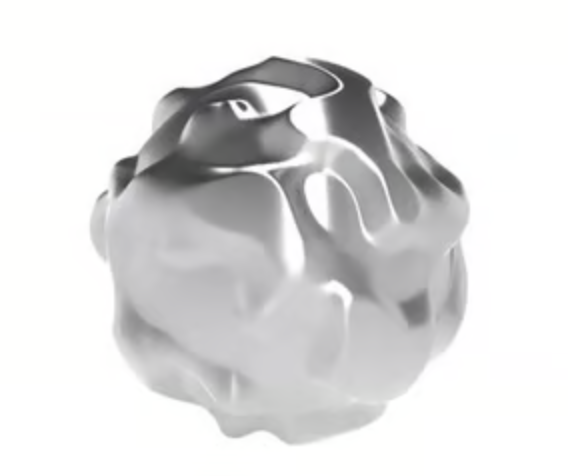
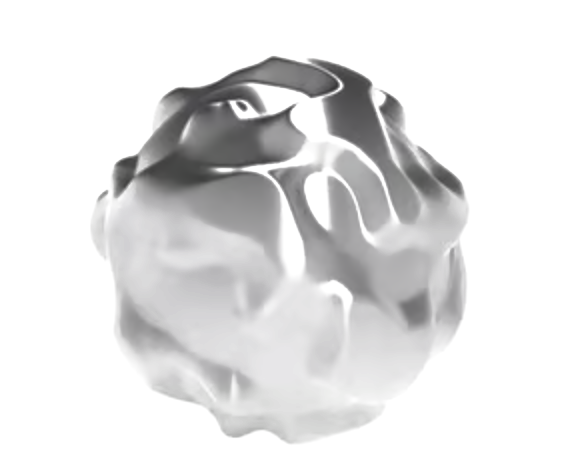
fix: remove white background from silver.png + drop mix-blend-mode
Used PIL soft-threshold to strip white bg with smooth edge blending.
Removed mix-blend-mode: multiply from img element since PNG is now transparent.

diff --git a/src/components/ui/UpChatMockup.tsx b/src/components/ui/UpChatMockup.tsx
@@ -235,8 +235,6 @@ export function UpOrbMascot() {
             width: '100%',
             height: '100%',
             objectFit: 'contain',
-            mixBlendMode: 'multiply',
-            filter: 'contrast(1.08) brightness(1.05)',
             display: 'block',
           }}
         />
